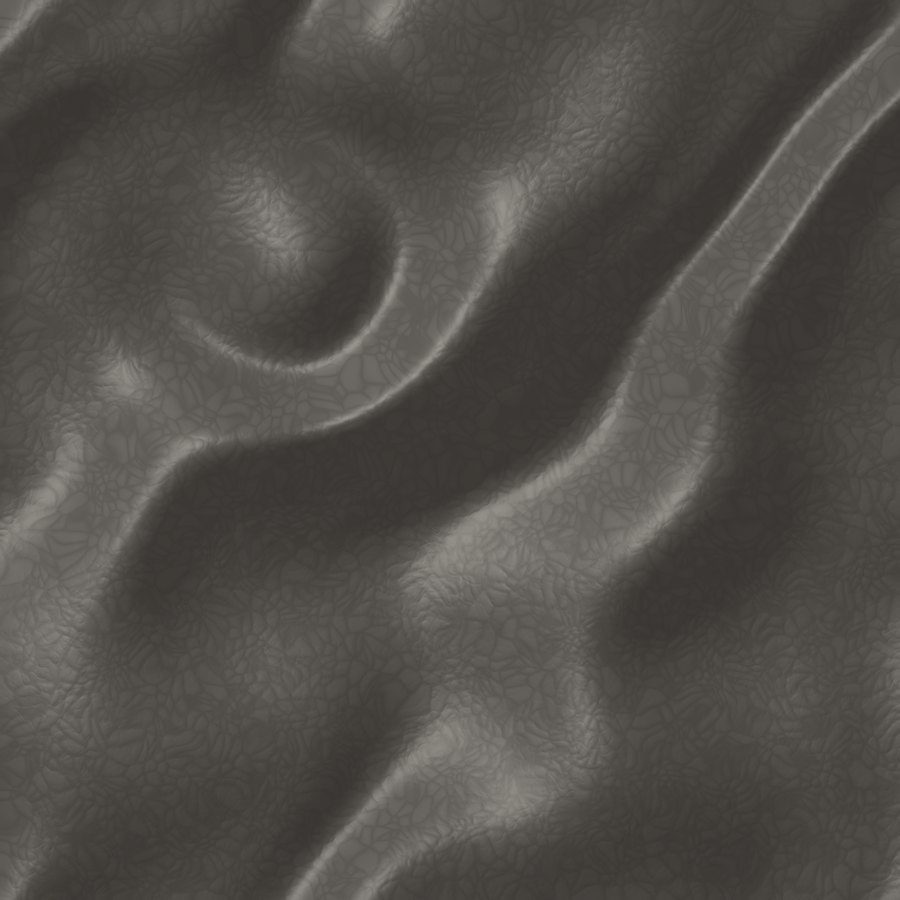
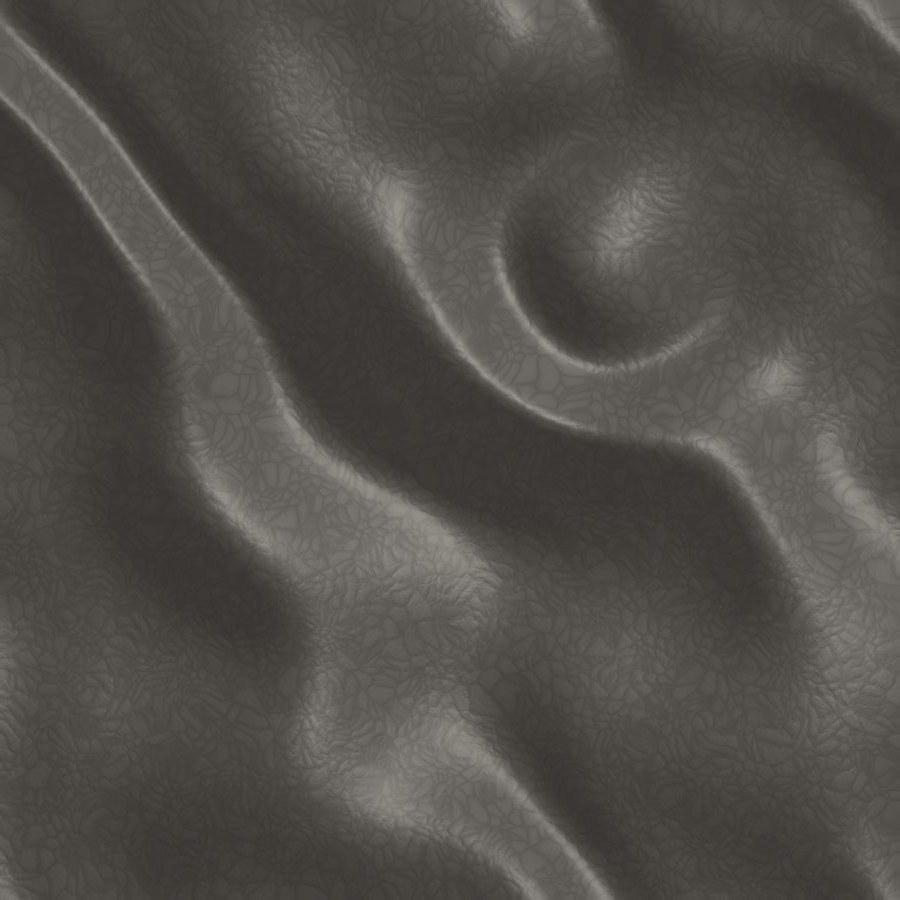
Unique photos, Korean names, cleaner color names, home button, readability
- Mastrotto card: hide-drying photo from the Gruppo Mastrotto profile (was the same wingchair as the high-end card)
- Values card: new sunlit sofa photo (bags photo stays only in the bags card)
- Placeholder leather shots no longer identical between articles
- Article detail: Korean name under the English name, colors without ERP numbers/DL codes plus Korean names, thickness as small chips
- Top bar: 처음으로 (home) button; larger, darker nav/heading/lede text

Claude-Session: https://claude.ai/code/session_01P8cUpcHAJDBBrimTDm1UUZ

diff --git a/CLAUDE.md b/CLAUDE.md
@@ -12,6 +12,7 @@
   - 브랜드 목록은 스크립트의 `BR`, 아티클 필터는 `LINES`
 - 데이터: 스크립트 상단 `C`(컬러 hex·코드), `FAM`(컬러 계열), `A`(아티클 목록: key, name, line, thick, pvc, colors, desc)
   - line: PALLADIO / AMBRA / MASTROTTO. thick를 비우면 "두께 확인 중"으로 표시
+  - 화면 표기명: `NAME_KO`(아티클 한글명), `CN_KO`(컬러 한글명), `cn()`(ERP 번호·DL 코드를 뺀 영문 컬러명). 컬러 키(`C`)는 ERP 이름 그대로 두고(사진 파일명에 쓰임) 새 컬러를 추가하면 CN_KO도 함께 채울 것
 - 검색: 왼쪽 위 검색창. `ART_KO`, `COL_KO`, `SEC_IX`에 한글 검색어·바로가기 키워드
 - 아티클 상세: `openArt(key, color)` — 큰 사진 갤러리, 커서 위치 확대(마우스), 컬러 클릭 시 해당 사진으로 이동
 - 문의: 방문자 정보를 수집하지 않음(폼 없음). 버튼을 누르면 대표전화 031-591-3900, info@daor.it 표시
@@ -24,6 +25,8 @@
 - 권장: 정사각형 1200px 이상 JPG. 전체 목록은 사진교체안내.txt
 
 ## 문구·디자인 원칙 (사용자 요청 사항)
+- 사이트 전체에서 같은 사진을 두 번 쓰지 않음 (LWG 인증서 확대 보기, 영상 포스터는 예외)
+- 고객 화면에 ERP 번호·DL 코드 노출 금지. 상단 가로줄 맨 앞에 '처음으로' 버튼 유지
 - 클래식/프리미엄/협력/서비스/개척 같은 키워드를 직접적으로 쓰지 말 것. 에르메스 등 명품 사이트 톤의 절제된 표현
 - 모던과 클래식, 프리미엄과 대중성의 공존. 너무 어둡거나 고전적이지 않게
 - 팔라디오 = 프리미엄, 암브라 = 일상적이지만 고급스러운 라인. 두 브랜드 문구를 같게 쓰지 말 것
